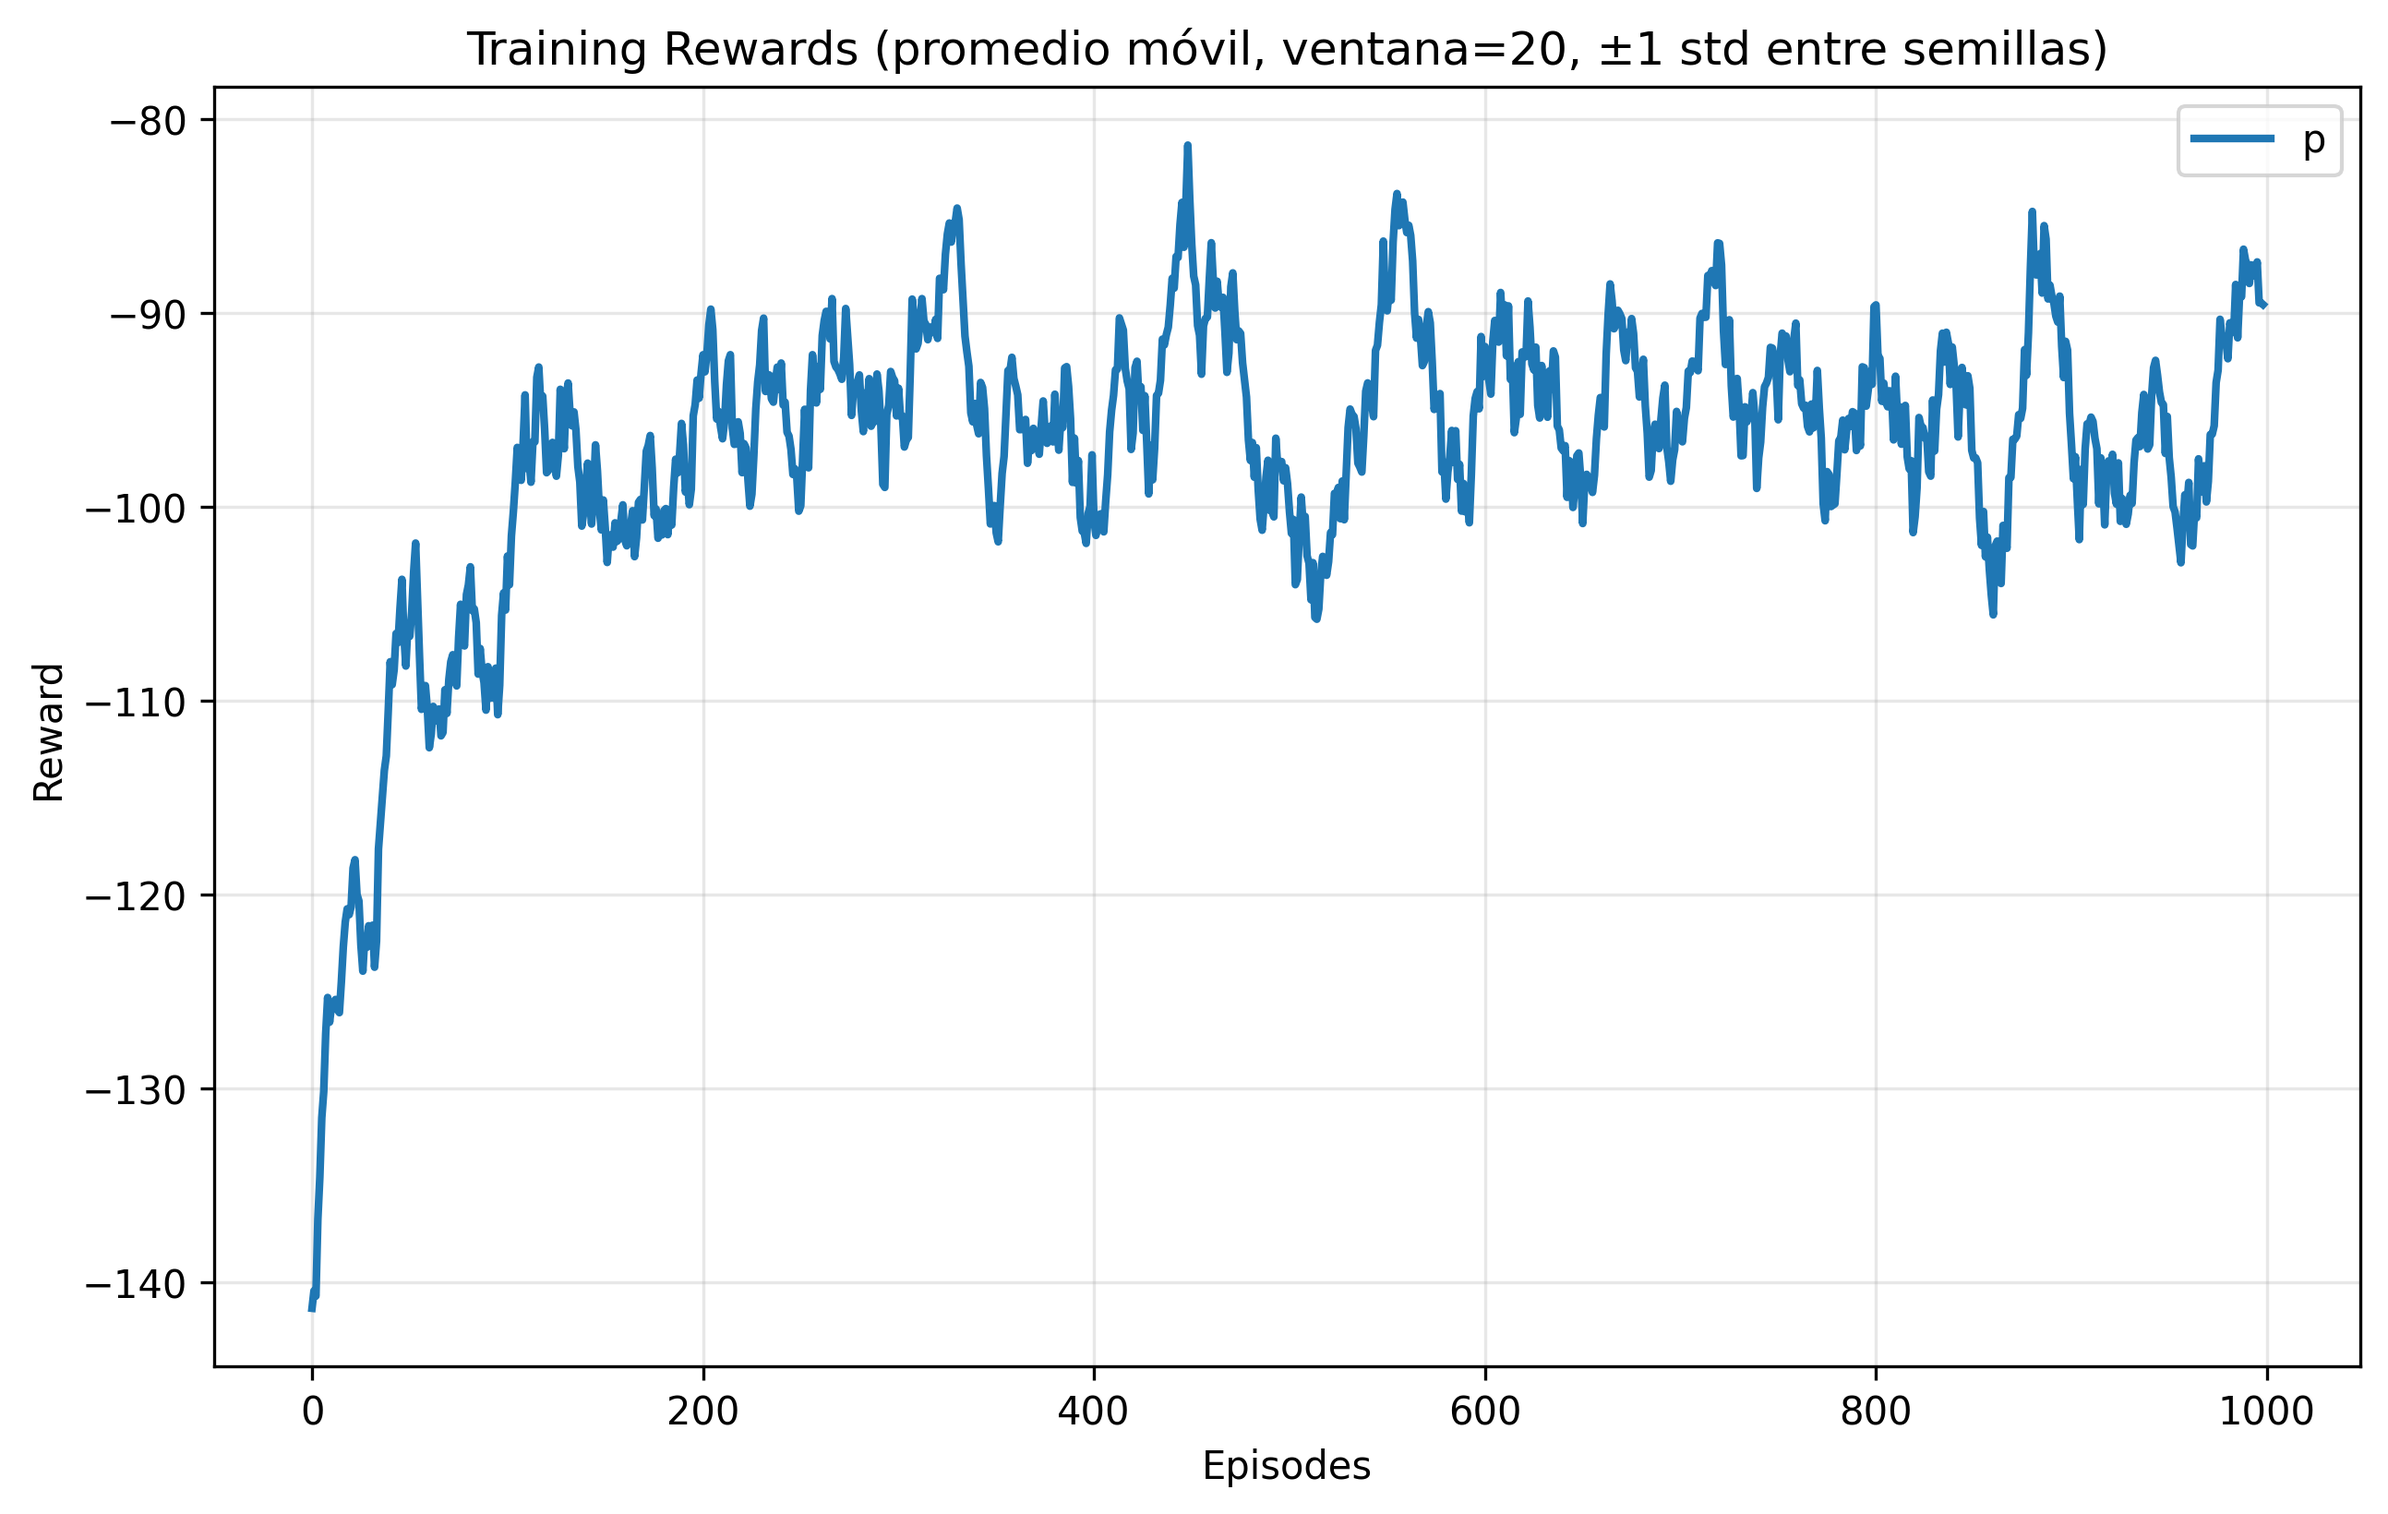
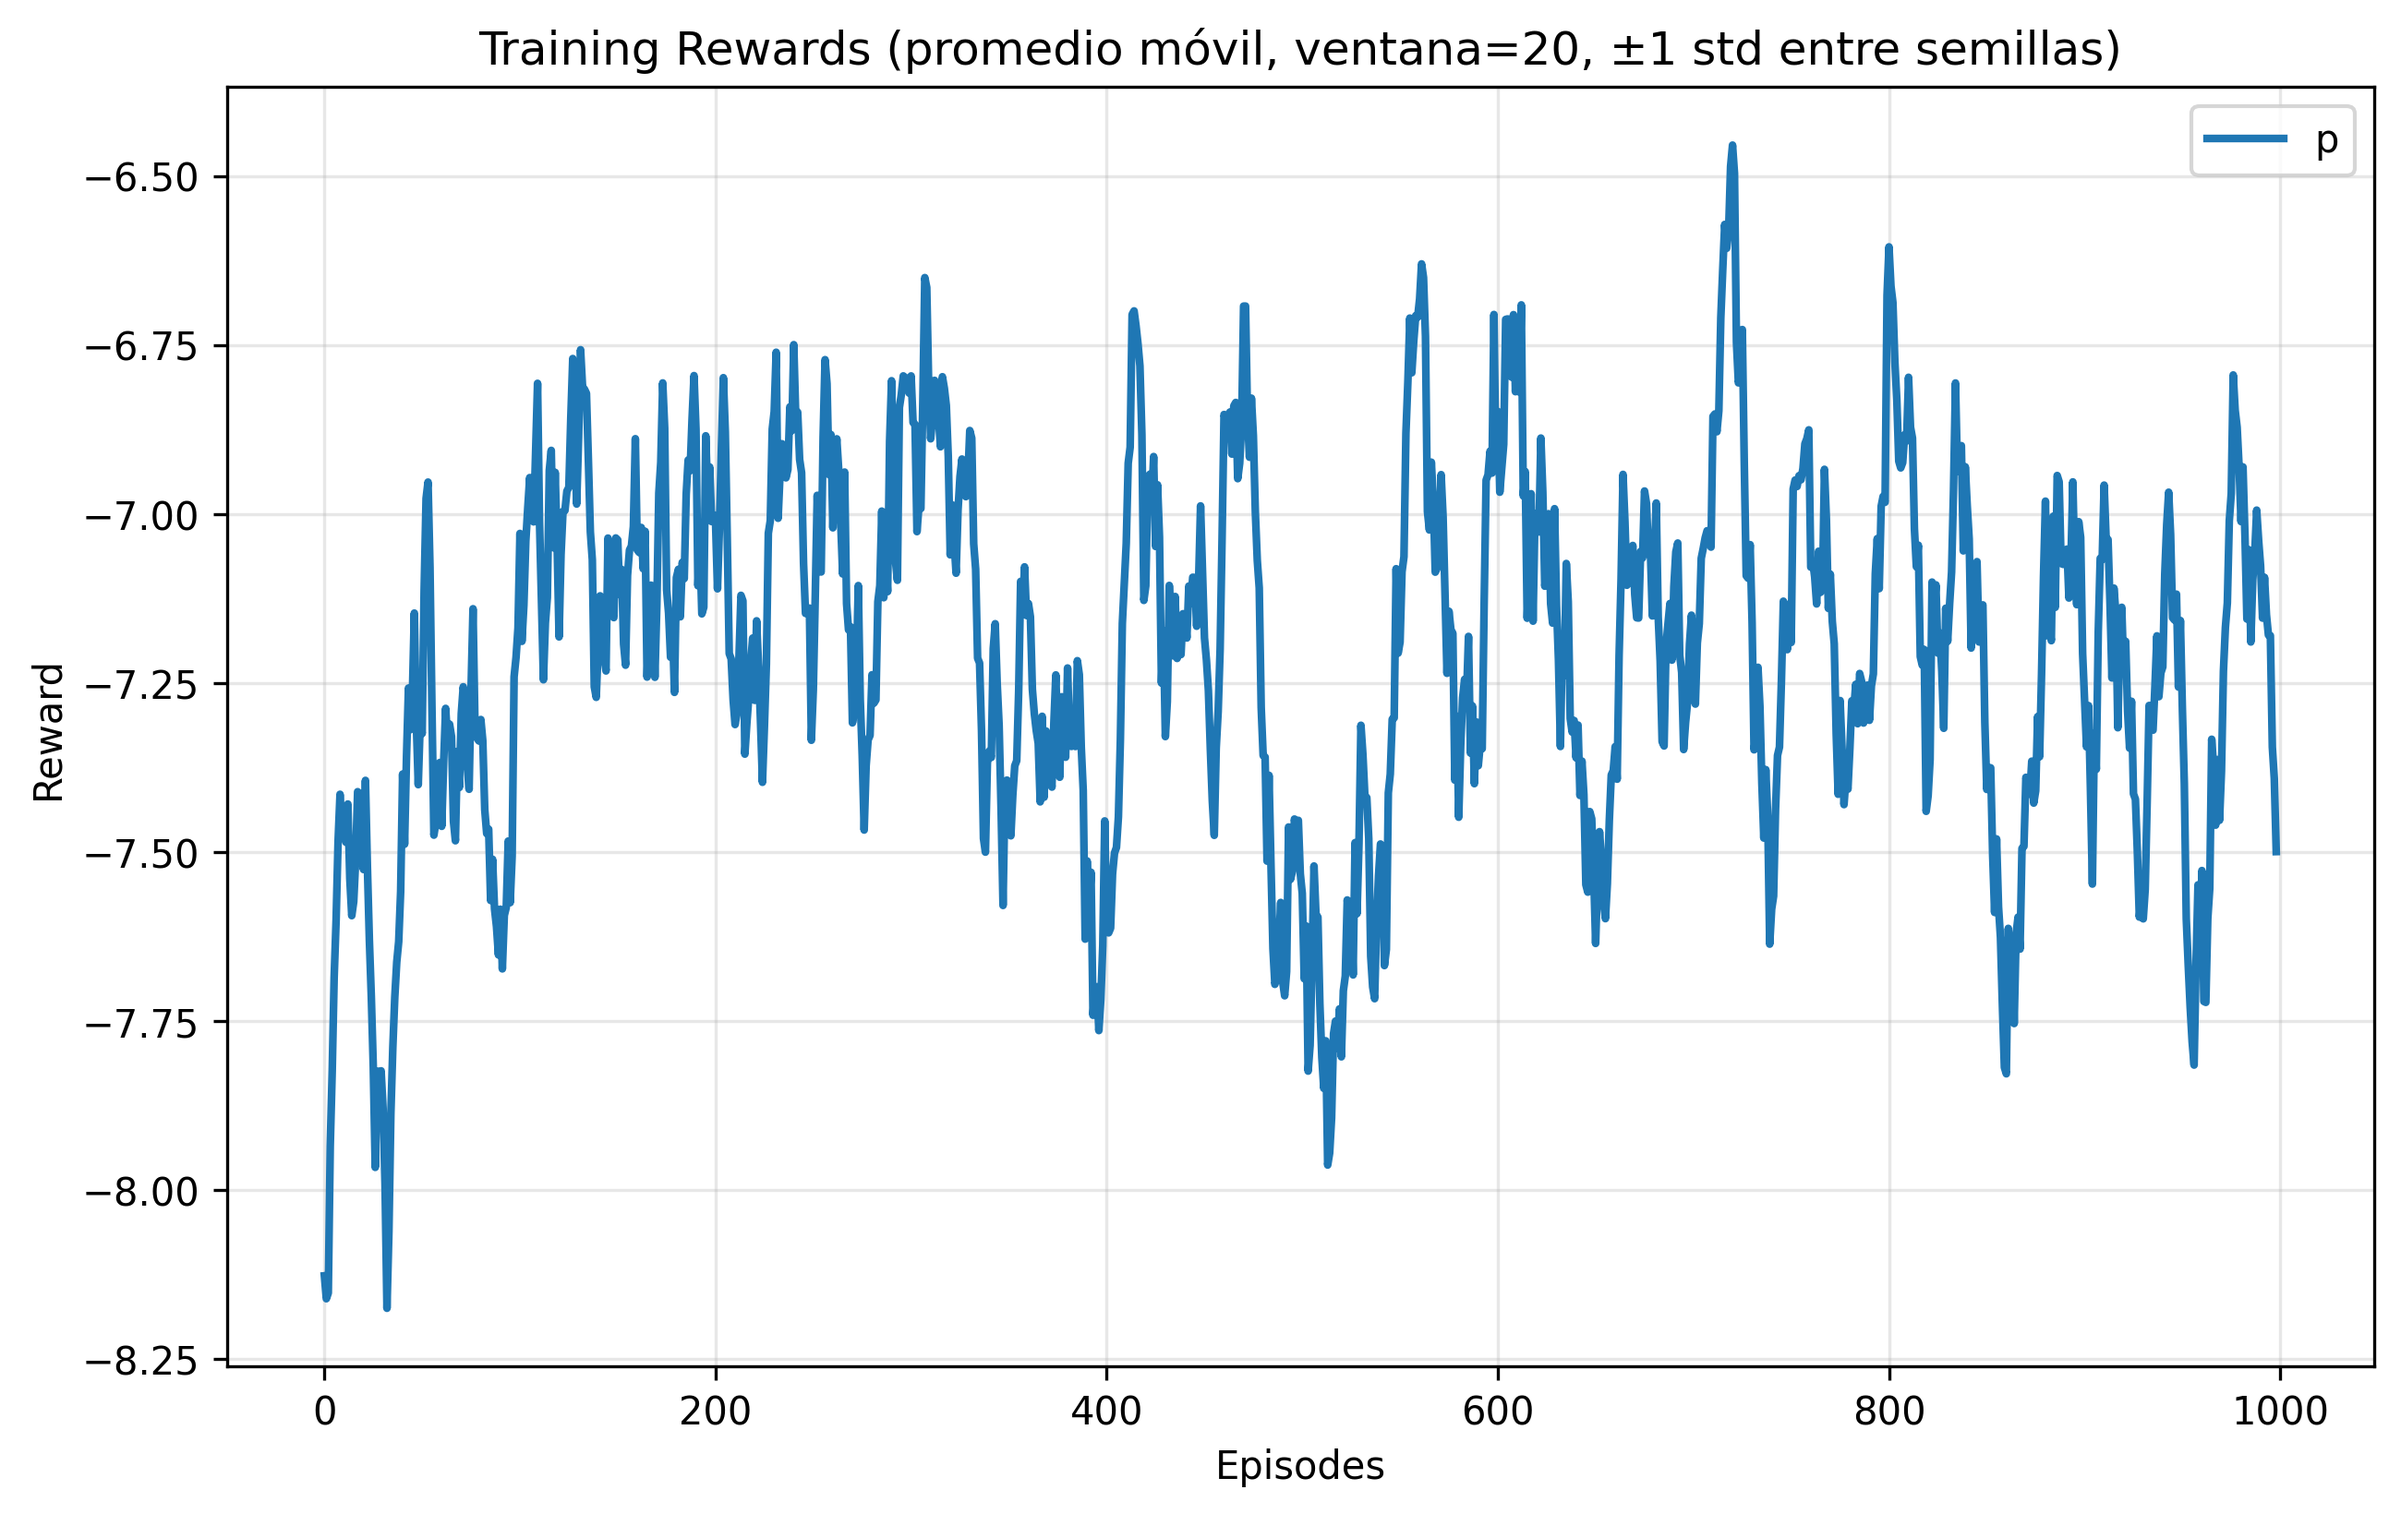
modificaciones de parametros para ql

diff --git a/learning_curves.py b/learning_curves.py
@@ -23,7 +23,7 @@ def moving_average(x, window=20):
 
 
 paths = {
-    "p": "REINFORCE/experiments/REINFORCE_experiment_2026-10-23_13-02-52/all_training_rewards_2026-10-23_13-02-52.pkl"
+    "p": "REINFORCE_ciclo_variable/experiments/REINFORCE_experiment_2026-10-30_10-19-01/all_training_rewards_2026-10-30_10-19-01.pkl"
 }
 
 WINDOW = 20     # más alto = más liso (pero con más "retraso" visual)
